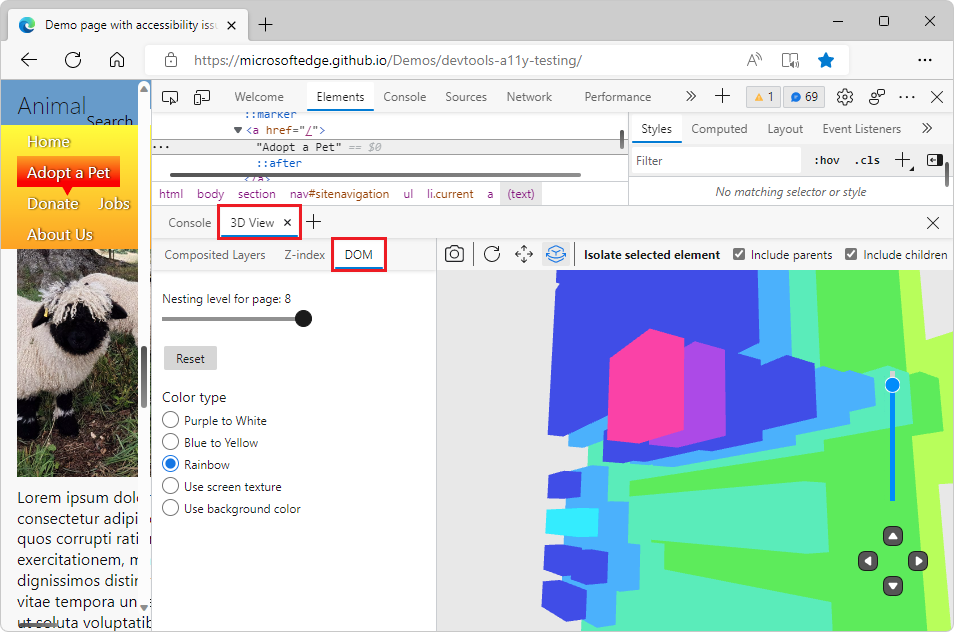
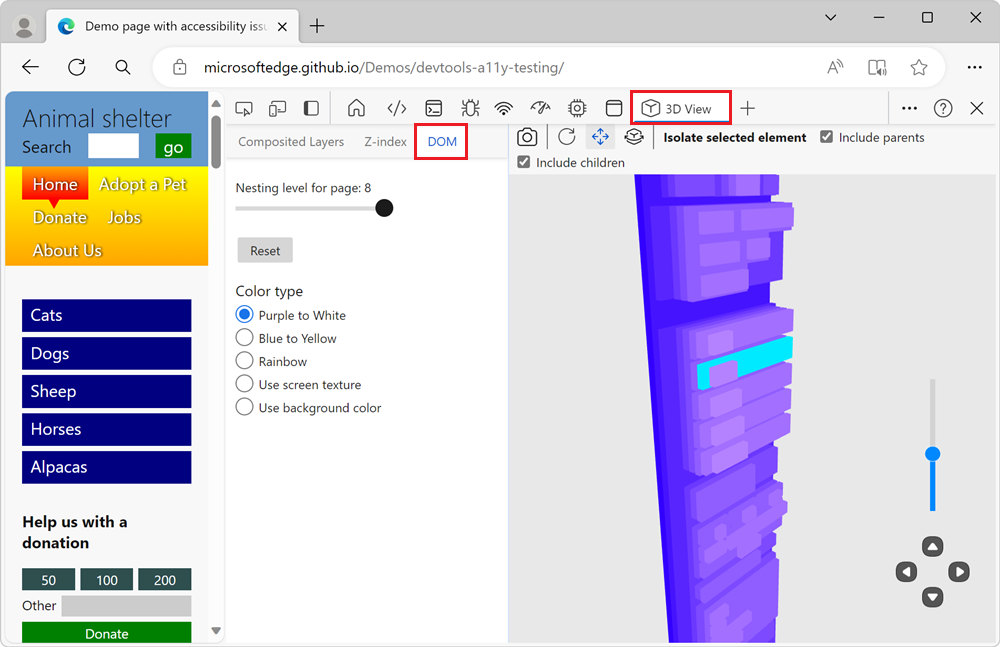
New images and revised content

diff --git a/microsoft-edge/devtools-guide-chromium/3d-view/index.md b/microsoft-edge/devtools-guide-chromium/3d-view/index.md
@@ -5,36 +5,71 @@ author: MSEdgeTeam
 ms.author: msedgedevrel
 ms.topic: conceptual
 ms.prod: microsoft-edge
-ms.date: 04/27/2022
+ms.date: 11/29/2023
 ---
 # Navigate webpage layers, z-index, and DOM using the 3D View tool
 
-Use the **3D View** tool to debug your web app by rotating your page in 3D space to get a perspective on your webpage, represented as layers.  3D visualization helps you understand the DOM hierarchy for your webpage in terms of z-index layers.
+Use the **3D View** tool to debug DOM, z-index, and composited layer problems in a webpage by rotating the page in 3D space.  The 3D visualization helps you understand the DOM tree hierarchy, the z-index stacking context tree hierarchy, and the composited layers created on the page.
 
 ![The 3D View tool](index-images/composited-layers-tab-galaxy.png)
 
 On the left, the **3D View** tool has 3 tabs:
 
-*  The **Composited Layers** tab shows a realistic rendering of the webpage, including images, for a comprehensive experience as you move the page around in 3D space.
-*  The **Z-index** tab.  Explore the elements of the webpage, with an emphasis on the z-index layer context.  Use this tab, or view, to debug the webpage based on the z-index stacking context.
-*  The **DOM** tab.  Explore the DOM as a whole, with all of the elements easily accessible.  Explore all the elements of the webpage, translated into a 3D perspective.
+*  The **Composited Layers** tab shows the composited layers that are created by the browser for your webpage. Each layer includes a realistic rendering of the content in the layer, for a comprehensive experience as you move the page around in 3D space.
+*  The **Z-index** tab shows a 3D representation of the stacking context tree.  Use this tab to debug z-index stacking issues on your webpage.
+*  The **DOM** tab shows a 3D representation of the DOM tree.  Use this tab to explore the DOM as a whole, with all of the elements easily accessible.
 
 On the right, the 3D canvas represents the webpage according to which tab and options you select.
 
 
 <!-- ====================================================================== -->
+## Open the 3D View tool
+
+You can open the **3D View** tool either in the **Activity Bar** or in the **Quick View** panel. Open the **3D View** tool in the **Activity Bar** to get more space to work with the tool.  Open the **3D View** tool in the **Quick View** panel to use the **Elements** tool at the same time and inspect the elements represented in the 3D canvas in the **Elements** tool.
+
+
+<!-- ------------------------------ -->
+#### Open the 3D View tool in the Activity Bar
+
+1. Open the webpage you want to visualize in 3D. For example, use the [Animal shelter](https://microsoftedge.github.io/Demos/devtools-a11y-testing/) demo page.
+
+1. To open DevTools, right-click the webpage, and then select **Inspect**.  Or, press **Ctrl+Shift+I** (Windows, Linux) or **Command+Option+I** (macOS).  DevTools opens.
+
+1. In DevTools, on the Activity Bar, select the **3D View** tab.  If that tab isn't visible, click the **More tools** (![More tools icon](./index-images/more-tools-icon.png)) button. The **3D View** tab opens in the Activity Bar:
+
+   ![The 3D View tool, displayed in the main area, with its tab displayed in the Activity Bar](./index-images/tool-in-activity-bar.png)
+
+
+<!-- ------------------------------ -->
+#### Open the 3D View tool in the Quick View panel
+
+1. Open the webpage you want to visualize in 3D. For example, use the [Animal shelter](https://microsoftedge.github.io/Demos/devtools-a11y-testing/) demo page.
+
+1. To open DevTools, right-click the webpage, and then select **Inspect**.  Or, press **Ctrl+Shift+I** (Windows, Linux) or **Command+Option+I** (macOS).  DevTools opens.
+
+1. If the **Quick View** panel isn't displayed, select **Customize and control DevTools** (**...**), and then select **Toggle Quick View panel**, or press **Esc**.
+
+1. In the Quick View toolbar, select the **3D View** tab.  If that tab isn't visible, click the **More tools** (![More tools icon](./index-images/more-tools-icon.png)) button. The **3D View** tab opens in the Quick View panel:
+
+   ![The 3D View tool, displayed in the Quick View panel](./index-images/tool-in-quick-view.png)
+
+
+
+<!-- ====================================================================== -->
 ## Zoom, pan, and rotate the 3D canvas
 
-This article shows the [Animal shelter](https://microsoftedge.github.io/Demos/devtools-a11y-testing/) demo page, which uses layers.
+You can zoom, pan, and rotate the 3D canvas that's displayed on the right side of the **3D View** tool to view the webpage from different angles.
 
 
-### Zoom the page in or out
+<!-- ------------------------------ -->
+#### Zoom the page in or out
 
 To zoom the webpage in or out on the 3D canvas, use the mouse scroll wheel, or use the slider in the lower right.
 
 
+<!-- ------------------------------ -->
 <!-- instance 1 of this section, keep synd'c -->
-### Pan view (button)
+#### Pan view (button)
 
 To shift the page left, right, up, or down, click the **Pan view** (![The 'Pan view' icon](index-images/pan-view-icon.png)) button and then drag the page on the 3D canvas in the desired direction with your mouse.
 
@@ -43,8 +78,9 @@ To pan around the DOM, right-click and drag in the direction you want the DOM to
 -->
 
 
+<!-- ------------------------------ -->
 <!-- instance 1 of this section, keep synd'c -->
-### Rotate view (button)
+#### Rotate view (button)
 
 To rotate the page by using the mouse, click the **Rotate view** (![The 'Rotate view' icon](index-images/rotate-view-icon.png)) button and then drag the page on the 3D canvas in the desired angle with your mouse.
 
@@ -62,7 +98,6 @@ For more information, see these other sections in this page:
 <!-- ====================================================================== -->
 ## The Composited Layers tab
 
-
 In the Composited Layers view, the 3D canvas displays the list of layers created by the browser rendering engine for the webpage.
 
 Use the Composited Layers view to analyze how many layers are created by your CSS code, how big they are, and how often they change.
@@ -72,9 +107,8 @@ On the 3D canvas on the right, select an element of the webpage.  In the **Compo
 ![The Composited Layers tab](index-images/composited-layers-tab.png)
 
 
-<!-- == checkboxes == -->
-
-### Slow scroll rects (checkbox)
+<!-- ------------------------------ -->
+#### Slow scroll rects (checkbox)
 
 The **Slow scroll rects** checkbox highlights sections of the page that cause slow scrolling.  This checkbox is helpful to investigate performance problems.  Certain webpages use JavaScript to detect scroll (or touch) on certain page elements in a way that may make scrolling through the webpage slower than it normally could be.
 
@@ -85,33 +119,34 @@ This checkbox is similar to the **Scrolling performance issues** checkbox in the
 <!-- https://developer.chrome.com/docs/devtools/rendering/performance/#scrolling-performance-issues -->
 
 
-### Paints (checkbox)
+<!-- ------------------------------ -->
+#### Paints (checkbox)
 
 Renders the content from the webpage (color or image file) onto the elements.
 
 
-<!-- ===== -->
-### Layers expander tree
+<!-- ------------------------------ -->
+#### Layers expander tree
 
 Expand this tree to display the list of composited layers. Click on a layer to review detailed information about it in the Details info pane.
 
 
-<!-- ===== -->
-### Details info pane
+<!-- ------------------------------ -->
+#### Details info pane
 
-#### Size
+###### Size
 
 The width and then the height of the selected composited layer, along with the location of the upper left of the layer relative to the upper left of the page viewport.  For example, "1034 x 28055 (at 0, 0)".
 
-#### Compositing Reasons
+###### Compositing Reasons
 
 Reasons why the browser rendering engine created the layer.  For example: "Secondary layer, to house contents that can be scrolled."
 
-#### Memory estimate
+###### Memory estimate
 
 The memory consumed for the selected layer.  For example: "116 MB".
 
-#### Paint count
+###### Paint count
 
 How many times the selected layer was painted by the rendering engine.
 
@@ -127,25 +162,25 @@ How many times the selected layer was painted by the rendering engine.
 <!-- ====================================================================== -->
 ## The Z-index tab
 
-The **Z-index** tab contains some of the same features as the **DOM** tab, but adds z-index labels on the 3D canvas.
+The **Z-index** tab shows only the elements of the webpage that are stacking contexts or that are positioned along the z-axis. To learn more, see [Stacking context](https://developer.mozilla.org/docs/Web/CSS/CSS_positioned_layout/Understanding_z-index/Stacking_context) and [Using z-index](https://developer.mozilla.org/docs/Web/CSS/CSS_positioned_layout/Understanding_z-index/Using_z-index) on MDN.
 
 ![The Z-index tab](index-images/z-index-tab.png)
 
 
-For background information, see [MDN > CSS Reference > z-index](https://developer.mozilla.org/docs/Web/CSS/z-index).
-
-### Show Elements type (section)
+<!-- ------------------------------ -->
+#### Show Elements type (section)
 
 The **Show Elements type** section in the **Z-index** tab controls which elements of the page are shown in the 3D canvas.
 
-*  The **Show all** radio button shows all elements of the page.  This view is the quickest way to display all the page elements after changing the other 3D display settings.
+*  The **Show all** radio button shows both the stacking context elements and the elements which are positioned on the z-axis.  This view is useful to debug issues with elements that are incorrectly positioned on the z-axis.
 
-*  The **Show only stacking contexts** radio button only shows the page elements which are relevant to z-index stacking.  This view removes elements that don't participate in a stacking context, and flattens the DOM to produce easier navigation in the 3D canvas.
+*  The **Show only stacking contexts** radio button only shows the page elements which are stacking contexts.  This view is useful to quickly find out which elements are stacking contexts on the webpage.
 
 The **Show z-index labels** checkbox shows or hides the z-index labels in the 3D canvas.  By default, this checkbox is selected.
 
 
-### Color type (section)
+<!-- ------------------------------ -->
+#### Color type (section)
 
 In the **Z-index** tab, you can choose from the following color schemes to visualize the DOM in the 3D canvas:
 
@@ -159,21 +194,23 @@ These radio buttons allow you to toggle through the options and pick the color t
 <!-- ====================================================================== -->
 ## The DOM tab
 
-The **DOM** tab provides a general debugging view, rather than focusing on z-index.  The DOM is stacked more closely and cleanly than in the **Z-index** tab, because there aren't z-index context labels on the 3D canvas.
+The **DOM** tab provides a general debugging view of the DOM tree.  The **DOM** tab shows all the elements of the webpage in the 3D canvas. The elements' X and Y coordinates in the 3D canvas match their coordinates in the webpage. The elements' Z coordinates are based on how deeply nested the elements are in the DOM tree.
 
 ![The DOM tab](index-images/dom-tab.png)
 
 
-### Nesting level for page (slider)
+<!-- ------------------------------ -->
+#### Nesting level for page (slider)
 
-The number next to the slider indicates the number of layers for the document.  Dragging the slider to the left causes the outermost layers to peel away until you are left with a nesting level set to `1`, which displays only the furthest-back element in the DOM.  To remove some of the clutter, drag the slider.  It helps you get a closer look at what is happening in the lower levels.
+The slider controls how many levels of the DOM tree are displayed in the 3D canvas. The value displayed next to the slider indicates the maximum depth of the elements that are displayed in the 3D canvas.  Dragging the slider to the left causes the outermost layers to peel away until you are left with a nesting level set to `1`, which displays only the furthest-back element in the DOM.  To remove some of the clutter, drag the slider.  It helps you get a closer look at what is happening in the lower levels.
 
-#### Reset button
+###### Reset button
 
 Resets the **Nesting level for page** slider to the default value for the page.
 
 
-### Color type (section)
+<!-- ------------------------------ -->
+#### Color type (section)
 
 In the **DOM** tab, You can choose from the following color schemes visualize the DOM in the 3D canvas:
 
@@ -193,20 +230,23 @@ In the **DOM** tab, You can choose from the following color schemes visualize th
 ## Toolbar above the 3D canvas
 
 
-### Retake snapshot (button)
+<!-- ------------------------------ -->
+#### Retake snapshot (button)
 
-Click the **Retake snapshot** (![The 'Retake snapshot' icon](index-images/retake-snapshot-icon.png)) button to re-load the DOM to match the latest webpage viewport.  For example, after you make the viewport narrower or when you switch to a Device Emulation view, per [Emulate mobile devices (Device Emulation)](../device-mode/index.md).
+Click the **Retake snapshot** (![The 'Retake snapshot' icon](index-images/retake-snapshot-icon.png)) button in the **DOM** tab or **Z-index** tab to refresh the 3D representation of the DOM tree or stacking context tree to match the latest webpage viewport.  For example, after you make the viewport narrower or when you switch to a Device Emulation view, per [Emulate mobile devices (Device Emulation)](../device-mode/index.md).
 
 When the **Composited Layers** tab is selected, this button is omitted, because retaking the snapshot happens automatically when you resize the viewport.
 
 
-### Reset view (button)
+<!-- ------------------------------ -->
+#### Reset view (button)
 
 Click the **Reset view** button (![The 'Reset view' icon](index-images/reset-view-icon.png)) to reset the panning and rotation of the page.
 
 
 <!-- instance 2 of this section, keep synd'c -->
-### Pan view (button)
+<!-- ------------------------------ -->
+#### Pan view (button)
 
 To shift the page left, right, up, or down, click the **Pan view** (![The 'Pan view' icon](index-images/pan-view-icon.png)) button and then drag the page on the 3D canvas in the desired direction with your mouse.
 
@@ -216,7 +256,8 @@ To pan around the DOM, right-click and drag in the direction you want the DOM to
 
 
 <!-- instance 2 of this section, keep synd'c -->
-### Rotate view (button)
+<!-- ------------------------------ -->
+#### Rotate view (button)
 
 To rotate the page by using the mouse, click the **Rotate view** (![The 'Rotate view' icon](index-images/rotate-view-icon.png)) button and then drag the page on the 3D canvas in the desired angle with your mouse.
 
@@ -227,7 +268,8 @@ To rotate the page by using the keyboard, click in the 3D canvas to put focus on
 The keys rotate the page, regardless of whether the **Pan view** or **Rotate view** button is selected in the toolbar.
 
 
-### Isolate selected element (button and section)
+<!-- ------------------------------ -->
+#### Isolate selected element (button and section)
 
 Instead of showing all the page's DOM elements in the 3D canvas, you can focus on just displaying a portion of the DOM.
 
@@ -235,18 +277,15 @@ Select an element of the webpage in the 3D canvas, and then click the **Isolate 
 
 Use this button to display the element that you selected on the 3D canvas, while reducing the clutter that complex webpages can create in the 3D canvas.
 
-
-#### Include parents (checkbox)
+###### Include parents (checkbox)
 
 The **Include parents** checkbox controls whether the parent elements of a selected page element are displayed in the 3D canvas.  The **Include parents** checkbox is turned on by default.  When this checkbox is selected, to display an element and any of its parent elements on the 3D canvas, select an element in the 3D canvas or in the **Elements** tool, and then click the **Isolate selected element** button.
 
 This checkbox is shown when the **Z-index** or **DOM** tab is selected.
 
-
-#### Include children (checkbox)
+###### Include children (checkbox)
 
 The **Include children** checkbox is only shown when the **DOM** tab is selected.
-
 
 <!-- select select -->
 To display only the DOM element that you selected, along with and parents and children of the element:
